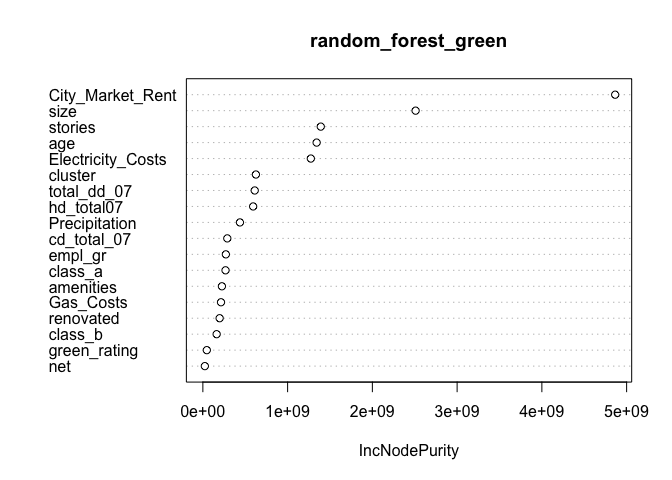
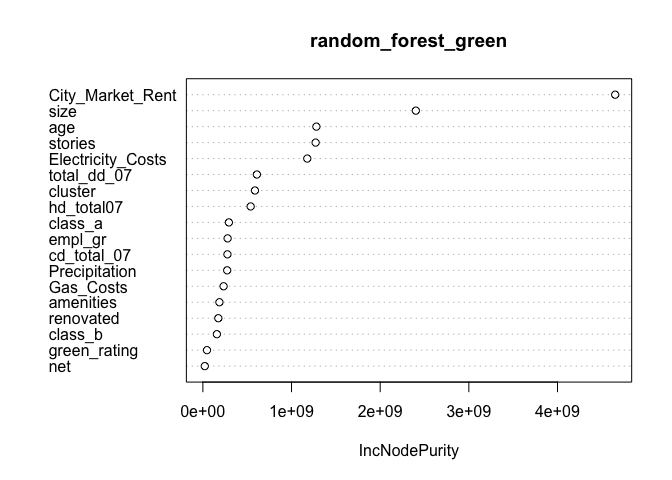
Final ver

diff --git a/Exercise 3/ECO-395M-exercise-3.md b/Exercise 3/ECO-395M-exercise-3.md
@@ -79,9 +79,9 @@ class and adopted in my base model to evaluate performance.
 
 Out-of-sample RMSEs for un-pruned CART and pruned CART is,
 
-    ## [1] 29.98221
+    ## [1] 20.49833
 
-    ## [1] 26.71775
+    ## [1] 20.88102
 
 Result shows pruned CART gives a little bit higher RMSE compared to
 un-pruned CART. This is due to the fact that pruned CART has higher bias
@@ -103,7 +103,7 @@ of random forest eliminates need for cross validation.
 
 Out-of-sample RMSEs for random forests is,
 
-    ## [1] 25.10599
+    ## [1] 18.97562
 
 #### Gradient Boosted trees to predict dengue cases
 
@@ -114,7 +114,7 @@ plotted error curve, which is deviance plot.
 
 ![](ECO-395M-exercise-3_files/figure-markdown_strict/problem%202.Gradient_boosted.1-1.png)
 
-    ## [1] 67
+    ## [1] 60
 
 The green line is our cross validated error. The x-axis of error curve
 is number of iterations and y-axis of error curve is deviance of the
@@ -123,7 +123,7 @@ best number of iteration minimizing error.
 
 Out-of-sample RMSEs for Gradient boosted tree is,
 
-    ## [1] 24.87059
+    ## [1] 18.3927
 
 ##### Checking model performance with out-of-sample RMSEs for each models
 
@@ -144,7 +144,7 @@ RMSE
 Un-pruned Tree
 </td>
 <td style="text-align:right;">
-29.98221
+20.49833
 </td>
 </tr>
 <tr>
@@ -152,7 +152,7 @@ Un-pruned Tree
 Pruned Tree
 </td>
 <td style="text-align:right;">
-26.71775
+20.88102
 </td>
 </tr>
 <tr>
@@ -160,7 +160,7 @@ Pruned Tree
 Random Forest
 </td>
 <td style="text-align:right;">
-25.10599
+18.97562
 </td>
 </tr>
 <tr>
@@ -168,7 +168,7 @@ Random Forest
 Gradient Boosting
 </td>
 <td style="text-align:right;">
-24.87059
+18.39270
 </td>
 </tr>
 </tbody>
@@ -281,7 +281,7 @@ RMSE
 Linear model
 </td>
 <td style="text-align:right;">
-889.6209
+1008.0680
 </td>
 </tr>
 <tr>
@@ -289,7 +289,7 @@ Linear model
 Improved linear model
 </td>
 <td style="text-align:right;">
-877.6338
+991.4529
 </td>
 </tr>
 <tr>
@@ -297,7 +297,7 @@ Improved linear model
 Tree model
 </td>
 <td style="text-align:right;">
-877.7752
+961.2680
 </td>
 </tr>
 <tr>
@@ -305,7 +305,7 @@ Tree model
 Pruned tree model
 </td>
 <td style="text-align:right;">
-915.8561
+976.4041
 </td>
 </tr>
 <tr>
@@ -313,7 +313,7 @@ Pruned tree model
 Random forest model
 </td>
 <td style="text-align:right;">
-665.8572
+731.4888
 </td>
 </tr>
 <tr>
@@ -321,7 +321,7 @@ Random forest model
 Boosted model
 </td>
 <td style="text-align:right;">
-722.9812
+816.2464
 </td>
 </tr>
 </tbody>
@@ -354,7 +354,7 @@ RMSE
 CART
 </td>
 <td style="text-align:right;">
-68910.50
+66708.59
 </td>
 </tr>
 <tr>
@@ -362,7 +362,7 @@ CART
 Random Forest
 </td>
 <td style="text-align:right;">
-52802.45
+49158.53
 </td>
 </tr>
 <tr>
@@ -370,7 +370,7 @@ Random Forest
 Gradient-Boosted Tree
 </td>
 <td style="text-align:right;">
-57751.01
+54048.97
 </td>
 </tr>
 </tbody>
